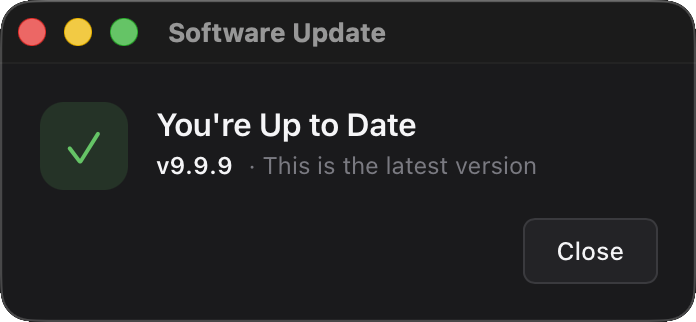
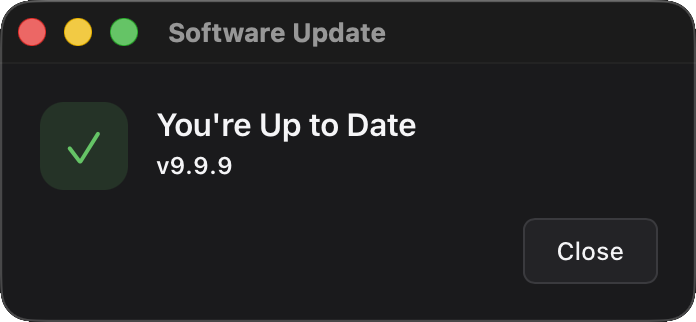
feat(updater): open at compact size; grow when an update is available
The previous resize-on-StateUpToDate happened AFTER the window was
already on screen, so the user saw the 520x540 default open up, the
spinner spin briefly, and the whole thing snap-deflate to 348x161
once Check returned. Lea correctly pointed out that the resize
should happen BEFORE the window is shown, not after.

Inverted the default: the built-in window now opens at the compact
348x161 size that matches Checking / Up-to-Date / Error. The
transition() hook grows the window to 520x540 only when state
moves to one of the states that actually needs the room — Available,
Downloading, Verifying, Installing, Ready. If a subsequent check
returns Up-to-Date the window shrinks back.

For the common "Check → no update" flow that means zero visible
resize: the window appears at its final size and stays there. The
"Check → update found" flow shows a grow (expanding to fit the
release notes + buttons), which reads as the window legitimately
adapting to richer content rather than the previous deflate-as-
postscript artifact.

Also drops the "· This is the latest version" suffix in the
Up-to-Date subtitle pill — the title says it already, and removing
it leaves room for verbose version strings (rc, build metadata,
SemVer pre-release suffixes) without wrapping the line.

availableWidth / availableHeight constants introduced alongside
upToDateWidth / Height; stateWantsFullSize() helper centralises the
"which states need the bigger window" decision so adding new states
[…]

Changed region(s): [[0.3621, 0.4658, 0.7845, 0.559]]

diff --git a/v3/pkg/updater/assets/window.html b/v3/pkg/updater/assets/window.html
@@ -648,9 +648,11 @@ body {
   function onNoUpdate() {
     if (!setState("up-to-date")) return;
     els.title.textContent = "You're Up to Date";
-    // Mirror the Update-Available subtitle pill shape: bold version on the
-    // left, dim explanatory text on the right. Reuses the same .u__ver-to
-    // and .u__size styles so both states share the visual rhythm.
+    // The title already conveys "this is the latest version"; the subtitle
+    // just carries the current version number so the user knows WHICH
+    // version they're on. Keeping it to a single version token (no
+    // explanatory suffix) leaves room for long versions like
+    // 1.0.0-rc.4+build.20260522.x86_64 without the line wrapping.
     els.subtitle.innerHTML = "";
     if (currentVersion) {
       var v = document.createElement("span");
@@ -658,10 +660,6 @@ body {
       v.textContent = "v" + currentVersion;
       els.subtitle.appendChild(v);
     }
-    var msg = document.createElement("span");
-    msg.className = "u__size";
-    msg.textContent = (currentVersion ? "· " : "") + "This is the latest version";
-    els.subtitle.appendChild(msg);
   }
   function onDownloadStarted(rel) {
     if (!setState("downloading")) return;

diff --git a/v3/pkg/updater/updater.go b/v3/pkg/updater/updater.go
@@ -439,33 +439,60 @@ func (u *Updater) DownloadedPath() string {
 
 // --- internals ---
 
-// upToDateWidth/Height are the compact dimensions the Up-to-Date state
-// shrinks the default window to via WindowSizer. The full-flow window is
-// 520x540; once the answer is "nothing to do", the layout only needs the
-// hero row and a Close button. 348x161 is what the visual designer
-// landed on after interactively dragging the window down to the
-// smallest size that still fit all the content without truncation.
+// Window-sizing constants for the built-in template:
+//
+//  * upToDateWidth/Height — the small "compact" card used for Checking,
+//    Up-to-Date, and Error states. The default window opens at this size,
+//    so the most common flow (Check → Up-to-Date) involves zero visible
+//    resize: the window is already its target size the moment it appears.
+//
+//  * availableWidth/Height — the larger "full-flow" card with room for
+//    Markdown-rendered release notes, the progress bar, and the Restart
+//    & Apply primary action. The Updater grows the window into this size
+//    via WindowSizer when state transitions to Available / Downloading /
+//    Verifying / Installing / Ready, then shrinks back if a fresh check
+//    later returns Up-to-Date.
 const (
-	upToDateWidth  = 348
-	upToDateHeight = 161
+	upToDateWidth     = 348
+	upToDateHeight    = 161
+	availableWidth    = 520
+	availableHeight   = 540
 )
+
+// statesNeedingFullSize lists the states whose layout requires the larger
+// window (notes panel, progress bar, or per-button row). Any state not in
+// this set fits the compact upToDateWidth×upToDateHeight card.
+func stateWantsFullSize(s State) bool {
+	switch s {
+	case StateAvailable, StateDownloading, StateVerifying, StateInstalling, StateReady:
+		return true
+	}
+	return false
+}
 
 func (u *Updater) transition(s State) {
 	u.mu.Lock()
 	u.state = s
 	u.mu.Unlock()
-	if s == StateUpToDate {
-		// Shrink the default window if the host's WindowHandle supports it.
-		// BYO windows can opt into the resize by implementing WindowSizer;
-		// handles that don't satisfy it just stay at their opened size.
-		u.sessMu.Lock()
-		sess := u.session
-		u.sessMu.Unlock()
-		if sess != nil {
-			if sizer, ok := sess.handle.(WindowSizer); ok {
-				sizer.SetSize(upToDateWidth, upToDateHeight)
-			}
-		}
+	// Resize the default window for states that need more (or less) room.
+	// The window opens at the compact size and grows when it has to; if a
+	// later transition takes us back to a compact-sized state the window
+	// shrinks again. Handles that don't implement WindowSizer (e.g. BYO
+	// windows whose owners didn't add SetSize) are silently skipped.
+	u.sessMu.Lock()
+	sess := u.session
+	u.sessMu.Unlock()
+	if sess == nil {
+		return
+	}
+	sizer, ok := sess.handle.(WindowSizer)
+	if !ok {
+		return
+	}
+	if stateWantsFullSize(s) {
+		sizer.SetSize(availableWidth, availableHeight)
+	} else {
+		sizer.SetSize(upToDateWidth, upToDateHeight)
 	}
 }
 

diff --git a/v3/pkg/updater/window.go b/v3/pkg/updater/window.go
@@ -62,14 +62,21 @@ type byoWindow struct{ handle WindowHandle }
 func (*byoWindow) isWindowOption() {}
 
 // defaultBuiltinOptions returns the chrome the framework uses when the user
-// doesn't override Options. Width gives release-note paragraphs room to
-// breathe; height accommodates the notes panel + progress / spinner area
-// + footer without crowding when the release ships substantial notes.
+// doesn't override Options.
+//
+// The dimensions match the compact Checking / Up-to-Date / Error states so
+// the window opens at its smallest natural size. If the Updater finds an
+// available release (or downloads / installs / verifies one), transition()
+// grows the window to availableWidth × availableHeight via WindowSizer.
+// Opening small and *growing* feels like the window adapting to fit richer
+// content; opening big and *shrinking* when the answer is "nothing to do"
+// reads as a janky deflate after the window's already been shown — which
+// is the artifact Lea flagged during interactive testing.
 func defaultBuiltinOptions() WindowOptions {
 	return WindowOptions{
 		Title:         "Software Update",
-		Width:         520,
-		Height:        540,
+		Width:         upToDateWidth,
+		Height:        upToDateHeight,
 		Frameless:     false,
 		AlwaysOnTop:   false,
 		DisableResize: false,